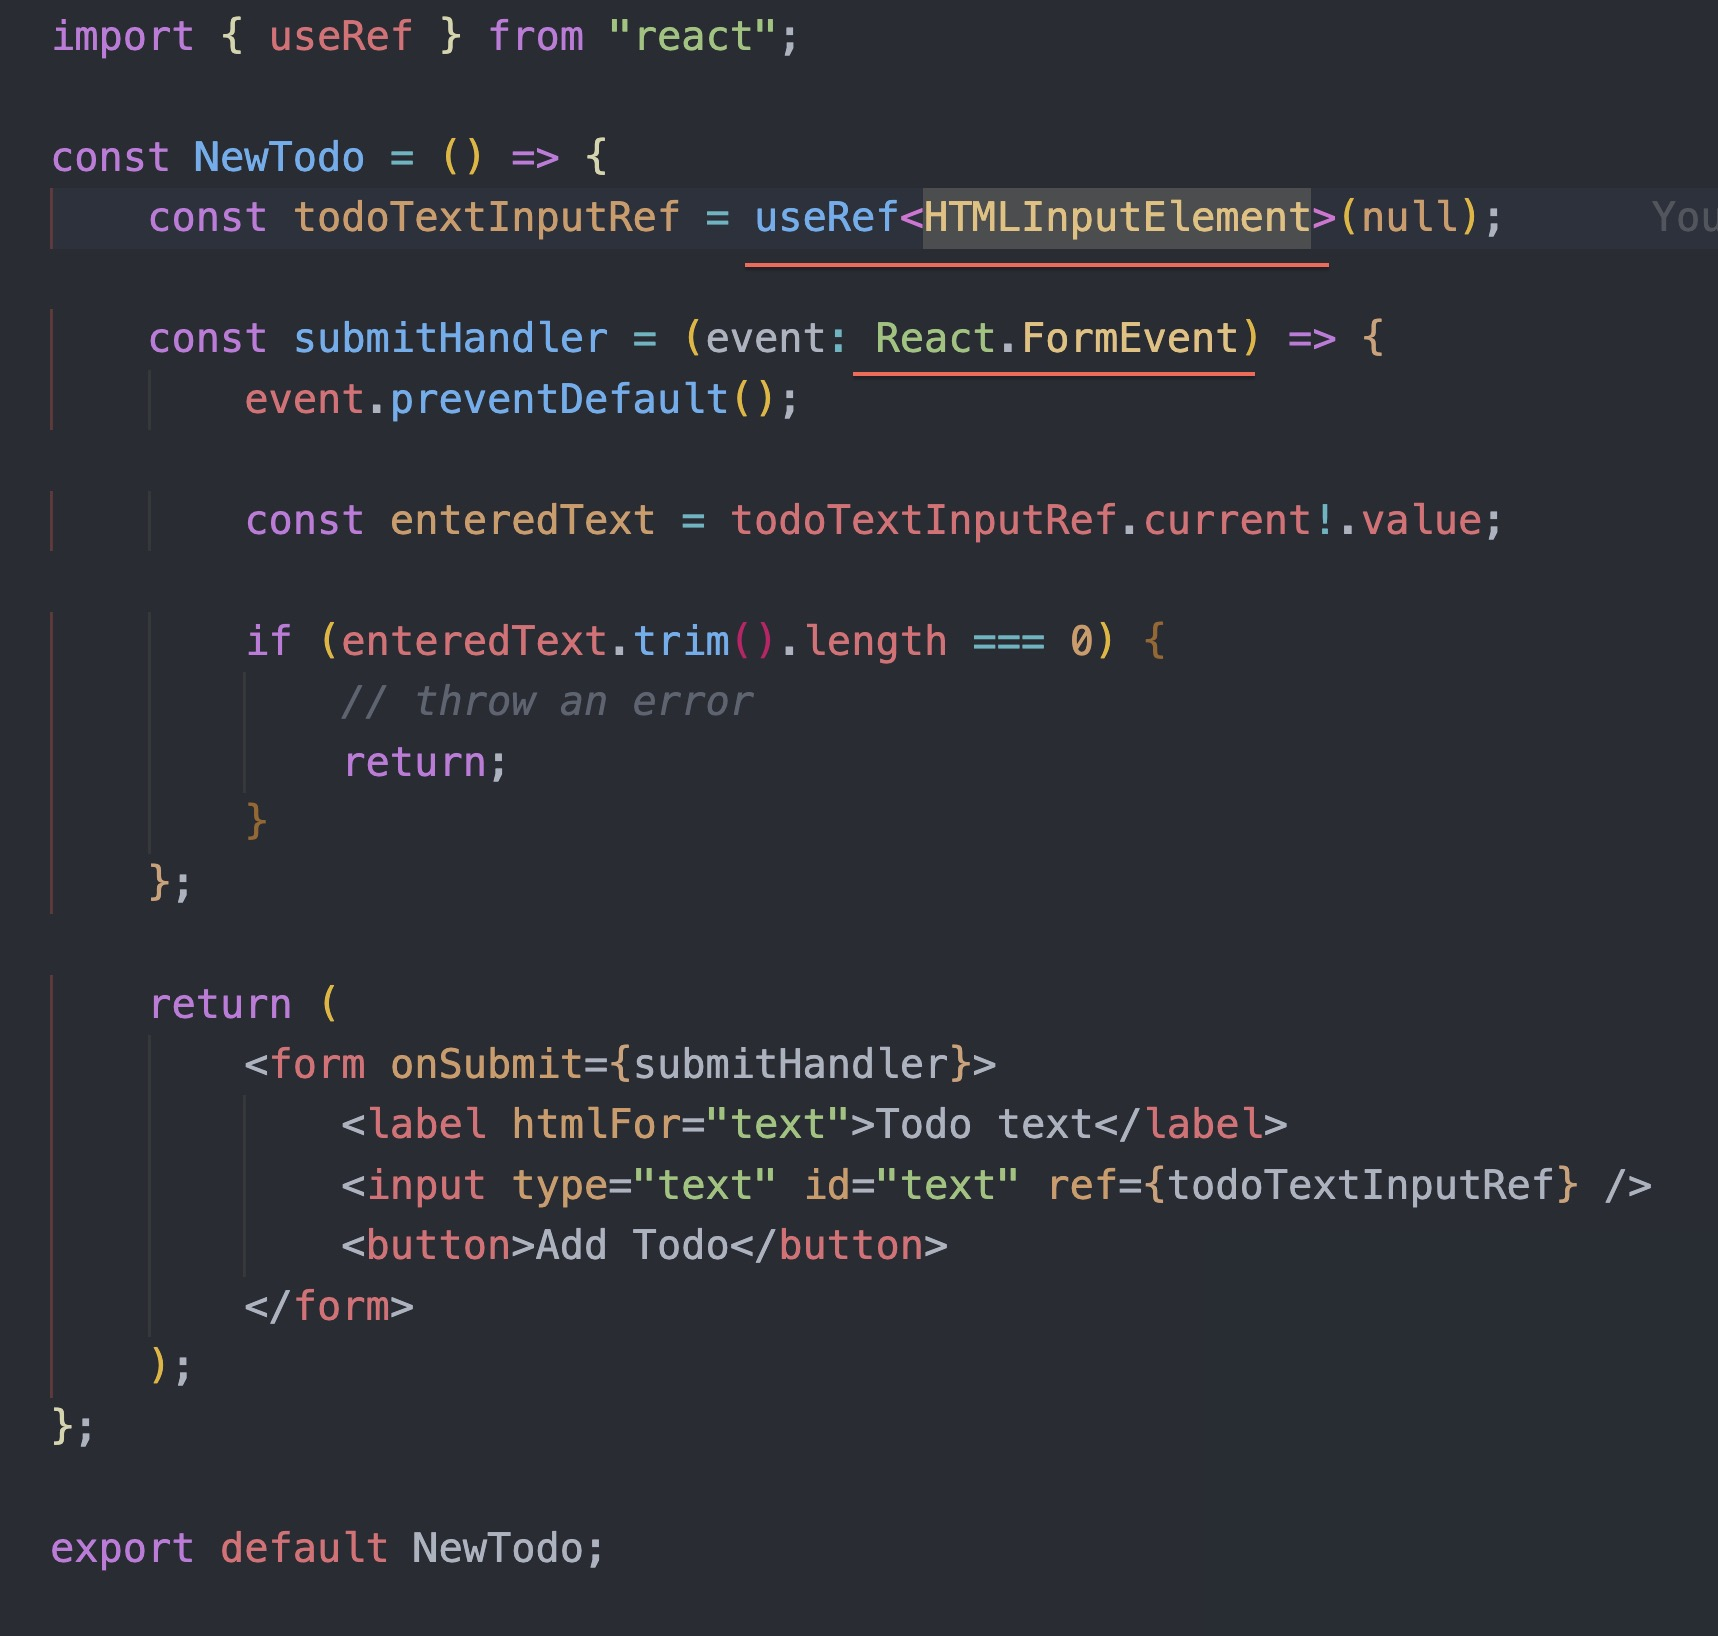
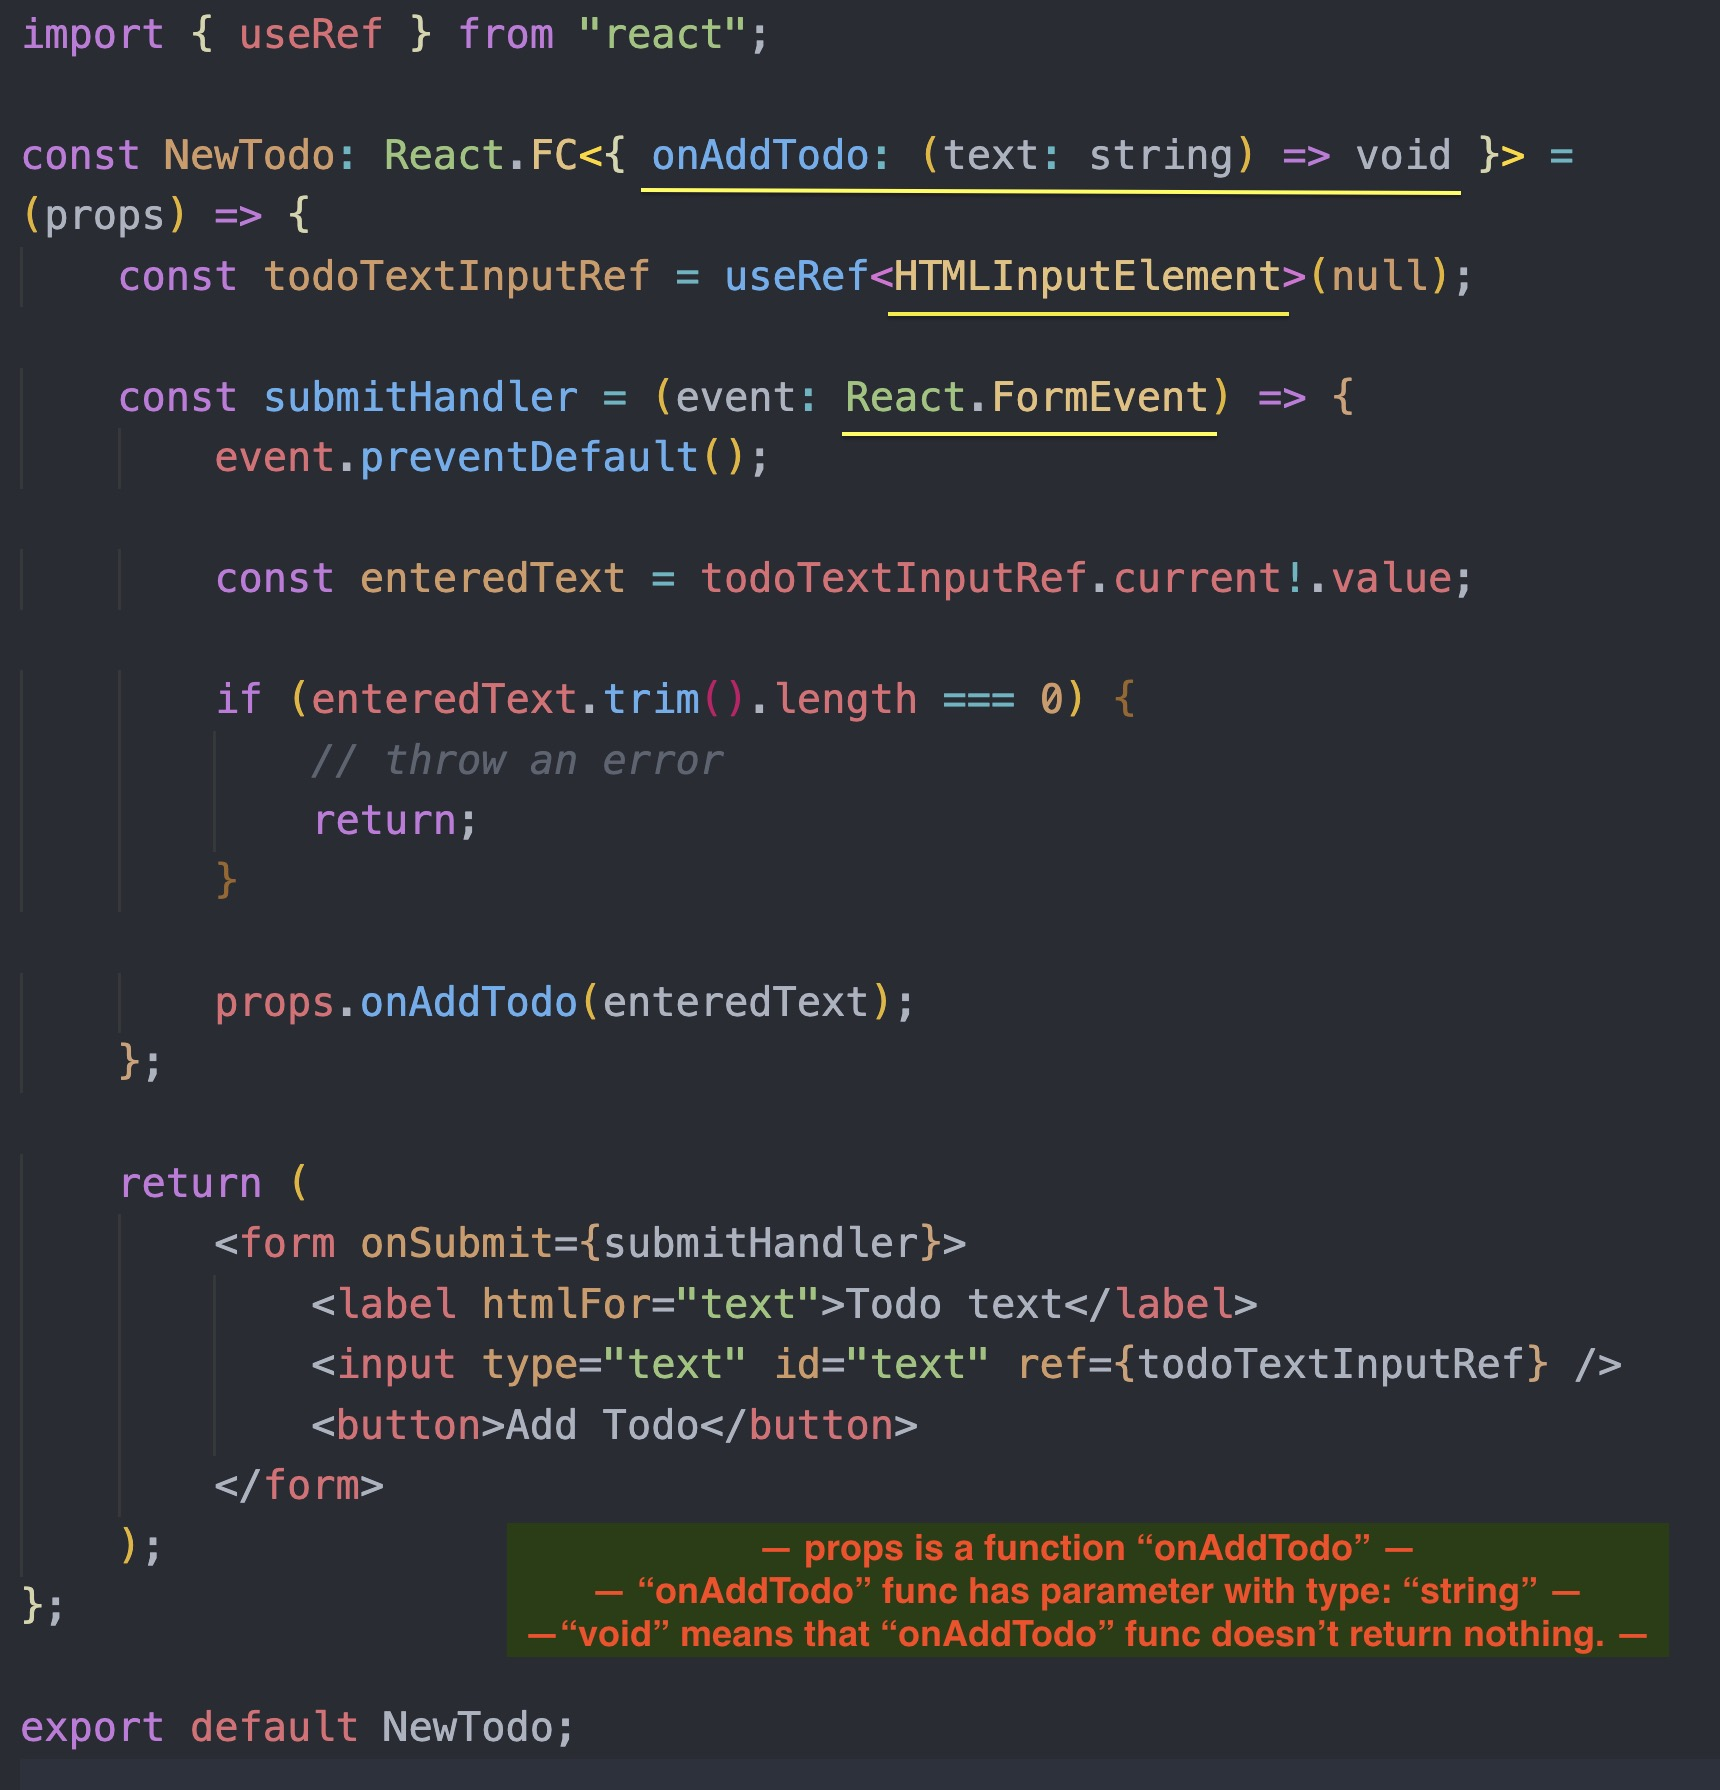
Functional Props

diff --git a/react-ts/src/App.tsx b/react-ts/src/App.tsx
@@ -1,11 +1,15 @@
+import NewTodo from "./components/NewTodo";
 import Todos from "./components/Todos";
 import Todo from "./models/todo";
 
 function App() {
-	const todos = [new Todo("Learn React"), new Todo("Learn Typescript")];
+	const todos = [new Todo("Learn React"), new Todo("Learn TypeScript")];
+
+	const addTodoHandler = (todoText: string) => {};
 
 	return (
 		<div>
+			<NewTodo onAddTodo={addTodoHandler} />
 			<Todos items={todos} />
 		</div>
 	);

diff --git a/react-ts/src/components/NewTodo.tsx b/react-ts/src/components/NewTodo.tsx
@@ -1,6 +1,6 @@
 import { useRef } from "react";
 
-const NewTodo = () => {
+const NewTodo: React.FC<{ onAddTodo: (text: string) => void }> = (props) => {
 	const todoTextInputRef = useRef<HTMLInputElement>(null);
 
 	const submitHandler = (event: React.FormEvent) => {
@@ -12,6 +12,8 @@ const NewTodo = () => {
 			// throw an error
 			return;
 		}
+
+		props.onAddTodo(enteredText);
 	};
 
 	return (
